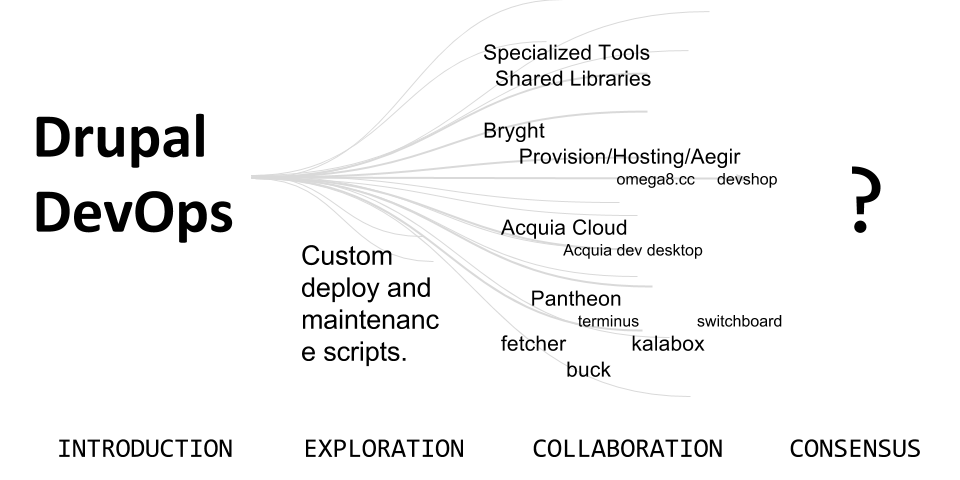
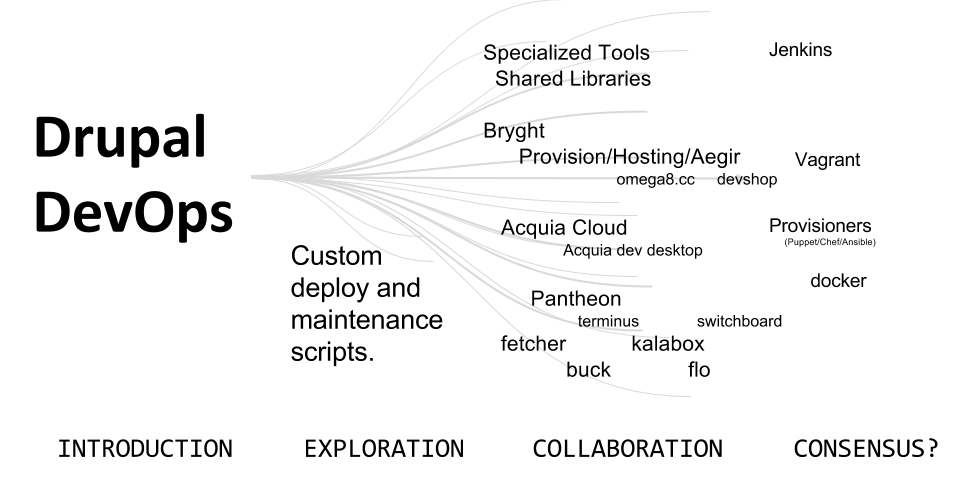
Adding new image and exploration label

diff --git a/SLIDES.md b/SLIDES.md
@@ -159,8 +159,9 @@ Developers + Ops <em class='fragment'>(+ Everyone Else)</em>
 
 
 <img src='img/github-drupal-vagrant.png' class='full'>
+Exploration
 
 
 
 <img src='img/github-drupal-jenkins.png' class='full'>
-
+Exploration
